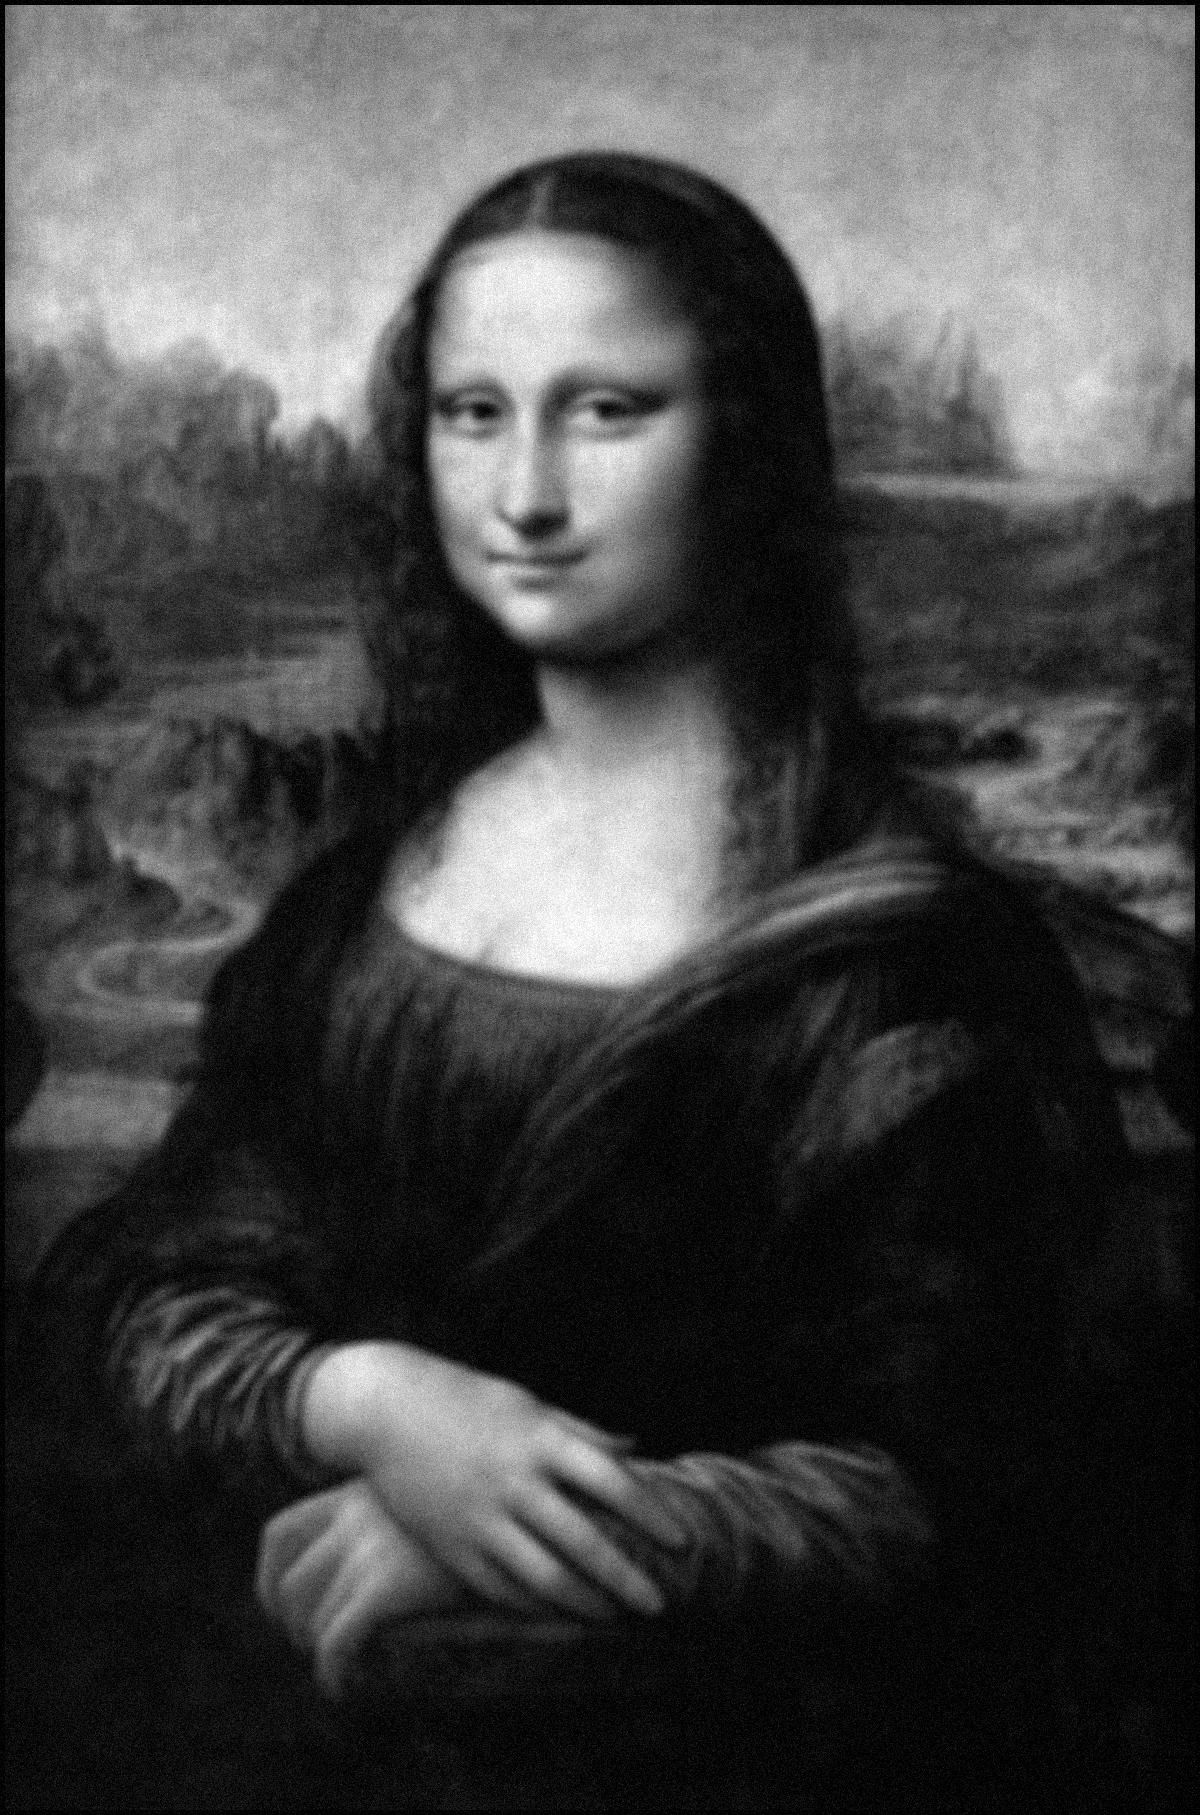
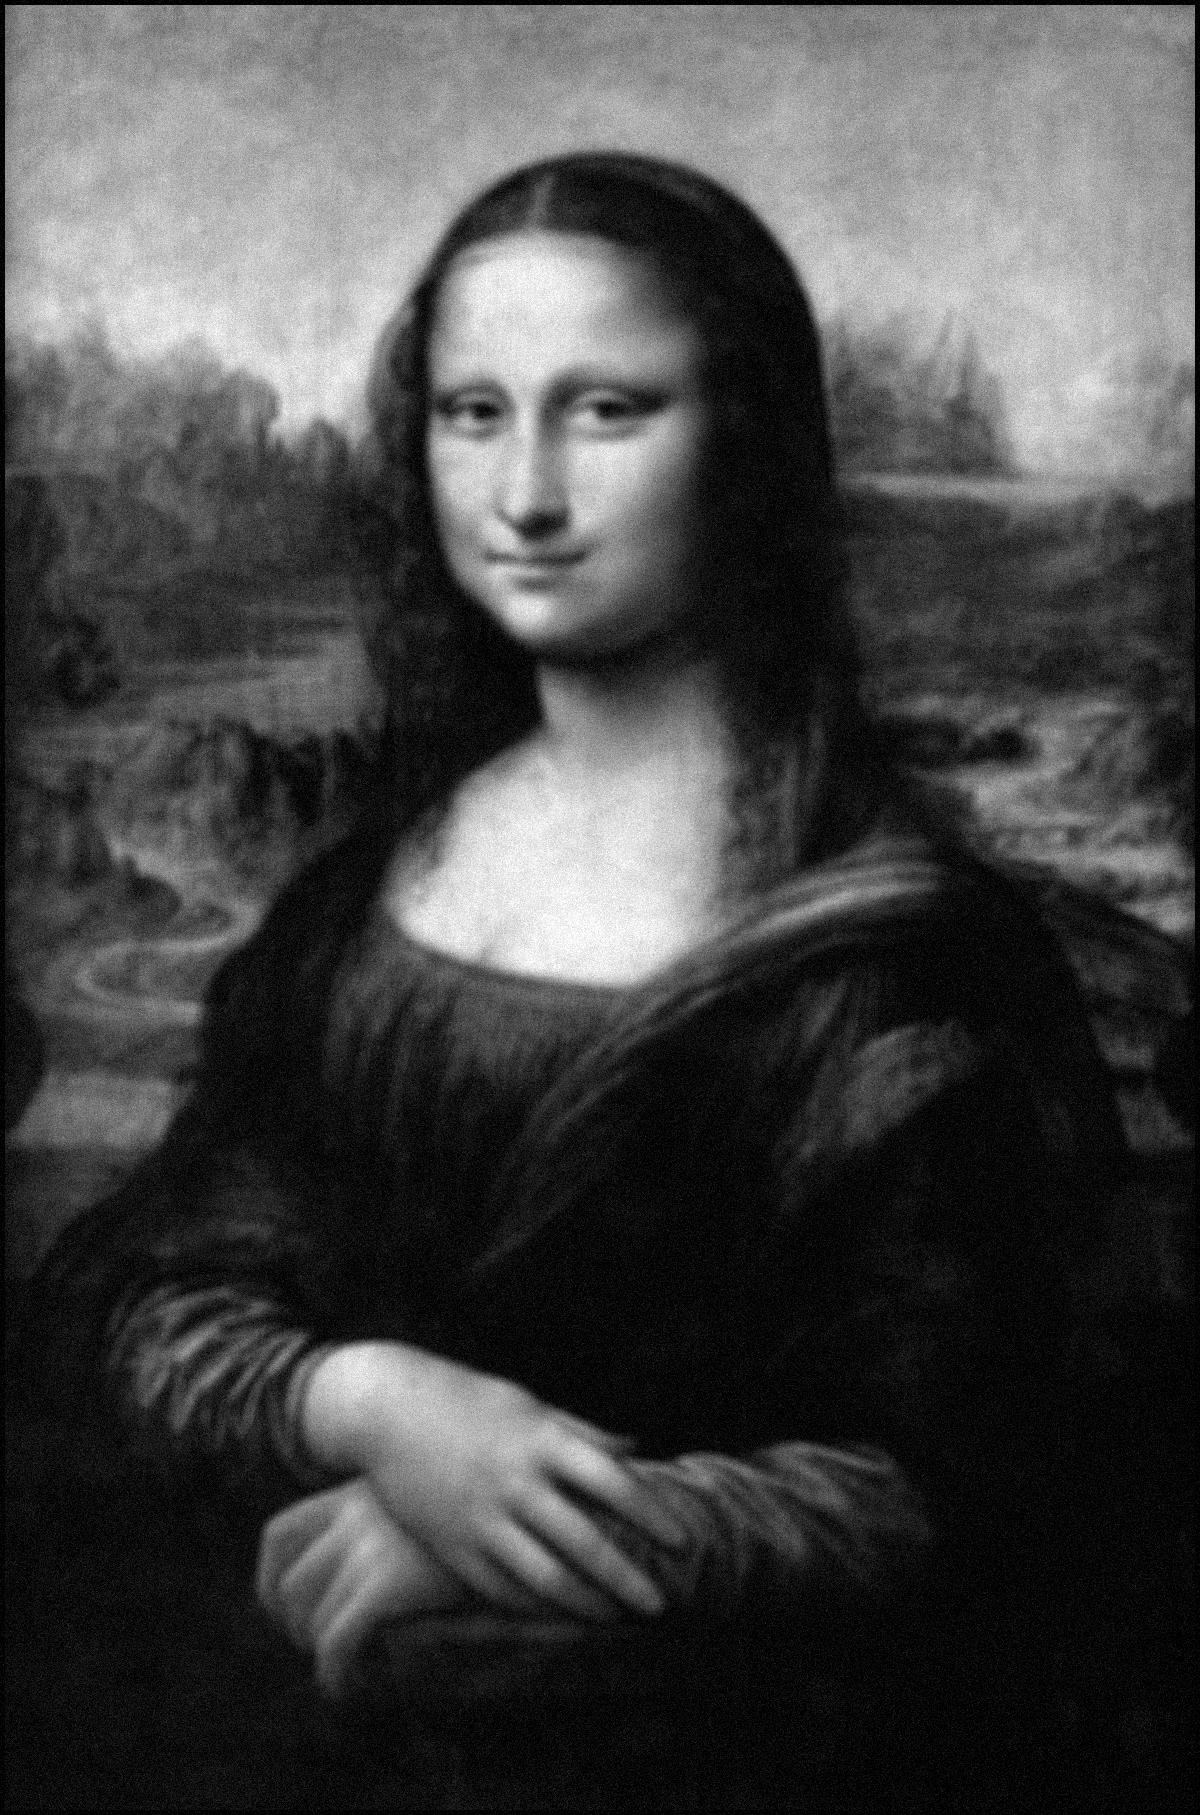
Add files

diff --git a/asgn-3/part1.py b/asgn-3/part1.py
@@ -32,15 +32,22 @@ class Part1Processor:
         print("[Finished] Adding noise to image.")
         return noisy_image
     
+    def normalize(self, img):
+        image = img.copy()
+        image -= np.min(image)
+        image /= np.max(image)
+        image *= 255
+        return image.astype(np.uint8)
+    
     def wiener_filter(self, img, kernel, var):
         print("[Started] Applying Wiener filter to image...")
-        kernel /= np.sum(kernel)
         dummy = np.copy(img)
         dummy = np.fft.fft2(dummy)
         kernel = np.fft.fft2(kernel, s = img.shape)
         kernel = np.conj(kernel) / (np.abs(kernel) ** 2 + var)
         dummy = dummy * kernel
         dummy = np.abs(np.fft.ifft2(dummy))
+        dummy = self.normalize(dummy)
         print("[Finished] Applying Wiener filter to image.")
         return dummy
 
@@ -75,7 +82,7 @@ def main():
     noisy_image = part1Solver.add_gaussian_noise(blurred_image, noise_variance)
     plt.imsave('part1_noisy_image.jpg', noisy_image, cmap='gray')
 
-    kernel = part1Solver.gaussian_kernel(3, 10)
+    kernel = part1Solver.gaussian_kernel(4, 10)
     restored_image = part1Solver.wiener_filter(noisy_image, kernel, noise_variance)
     plt.imsave('part1_restored_image.jpg', restored_image, cmap='gray')
     
